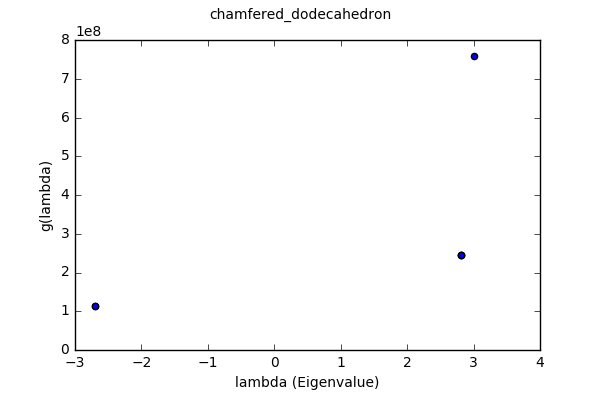
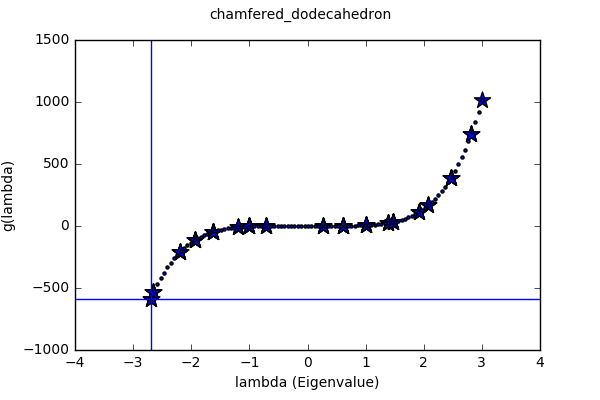
Updating eigenvalue plots.

diff --git a/code/scripts/deceptive_functions.py b/code/scripts/deceptive_functions.py
@@ -22,7 +22,11 @@ import logging
 import matplotlib.pyplot as plt
 import networkx as nx
 import numpy as np
-import scipy as sp
+
+
+# Intermediate points
+NUM_POINTS = 100
+MAX_POWER = 6
 
 
 def deceptive(y, coefficients):
@@ -61,7 +65,7 @@ graphs_generators = [
 ]
 
 # Min lambda
-min_lambda = [('Graph', 'Min g(lambda)')]
+min_lambda = [('Graph', 'Min g(lambda)', 'Number of Coefficients')]
 
 # Analyze graphs
 for name, generator in graphs_generators:
@@ -79,7 +83,7 @@ for name, generator in graphs_generators:
         w_obj = polygraph.spider_torus_walk_classes(g)
     else:
         graph = g
-        w_obj = polygraph.walk_classes(g)
+        w_obj = polygraph.walk_classes(g, max_power=MAX_POWER)
 
     # Generate solutions to nonnegative linear system
     logger.info('Performing nonnegative system check')
@@ -93,20 +97,28 @@ for name, generator in graphs_generators:
         ))
     else:
         # Take solutions as coefficients
-        coefficients = res.x
+        coefficients = res.x[::-1]
 
         # Find graph eigenvalues
         logger.info('Finding graph eigenvalues')
-        eigenvalues, eigenvectors = sp.sparse.linalg.eigsh(
-            sp.sparse.csr_matrix(nx.adjacency_matrix(graph), dtype=sp.float64),
-        )
+        eigenvalues = np.linalg.eigvalsh(nx.adjacency_matrix(graph).todense())
+
+        # Key points
+        max_eig = max(eigenvalues)
+        min_eig = min(eigenvalues)
+        linspace = np.linspace(min_eig, max_eig, NUM_POINTS)
 
         # Evaluate the deceptive function at each eigenvalue
         logger.info('Evaluating deceptive function at eigenvalues')
-        results = [deceptive(x, coefficients[::-1]) for x in eigenvalues]
+        eig_results = [deceptive(x, coefficients) for x in eigenvalues]
+        lin_results = [deceptive(x, coefficients) for x in linspace]
 
         # Append min result to table output
-        min_lambda.append((name, min(results)))
+        min_result, min_idx = min(
+            (val, idx)
+            for (idx, val) in enumerate(eig_results)
+        )
+        min_lambda.append((name, min_result, len(coefficients)))
 
         # Generate plot
         logger.info('Generating (lambda, g(lambda)) plot')
@@ -114,7 +126,10 @@ for name, generator in graphs_generators:
         plt.suptitle(name)
         plt.xlabel('lambda (Eigenvalue)')
         plt.ylabel('g(lambda)')
-        plt.scatter(eigenvalues, results)
+        plt.scatter(eigenvalues, eig_results, marker='*', s=150)
+        plt.scatter(linspace, lin_results, marker='.')
+        plt.axvline(x=eigenvalues[min_idx], ymin=0, ymax=max(eig_results))
+        plt.axhline(y=min_result, xmin=0, xmax=max_eig)
         plt.savefig('docs/tables-and-figures/{}'.format(name))
         plt.close()
 
